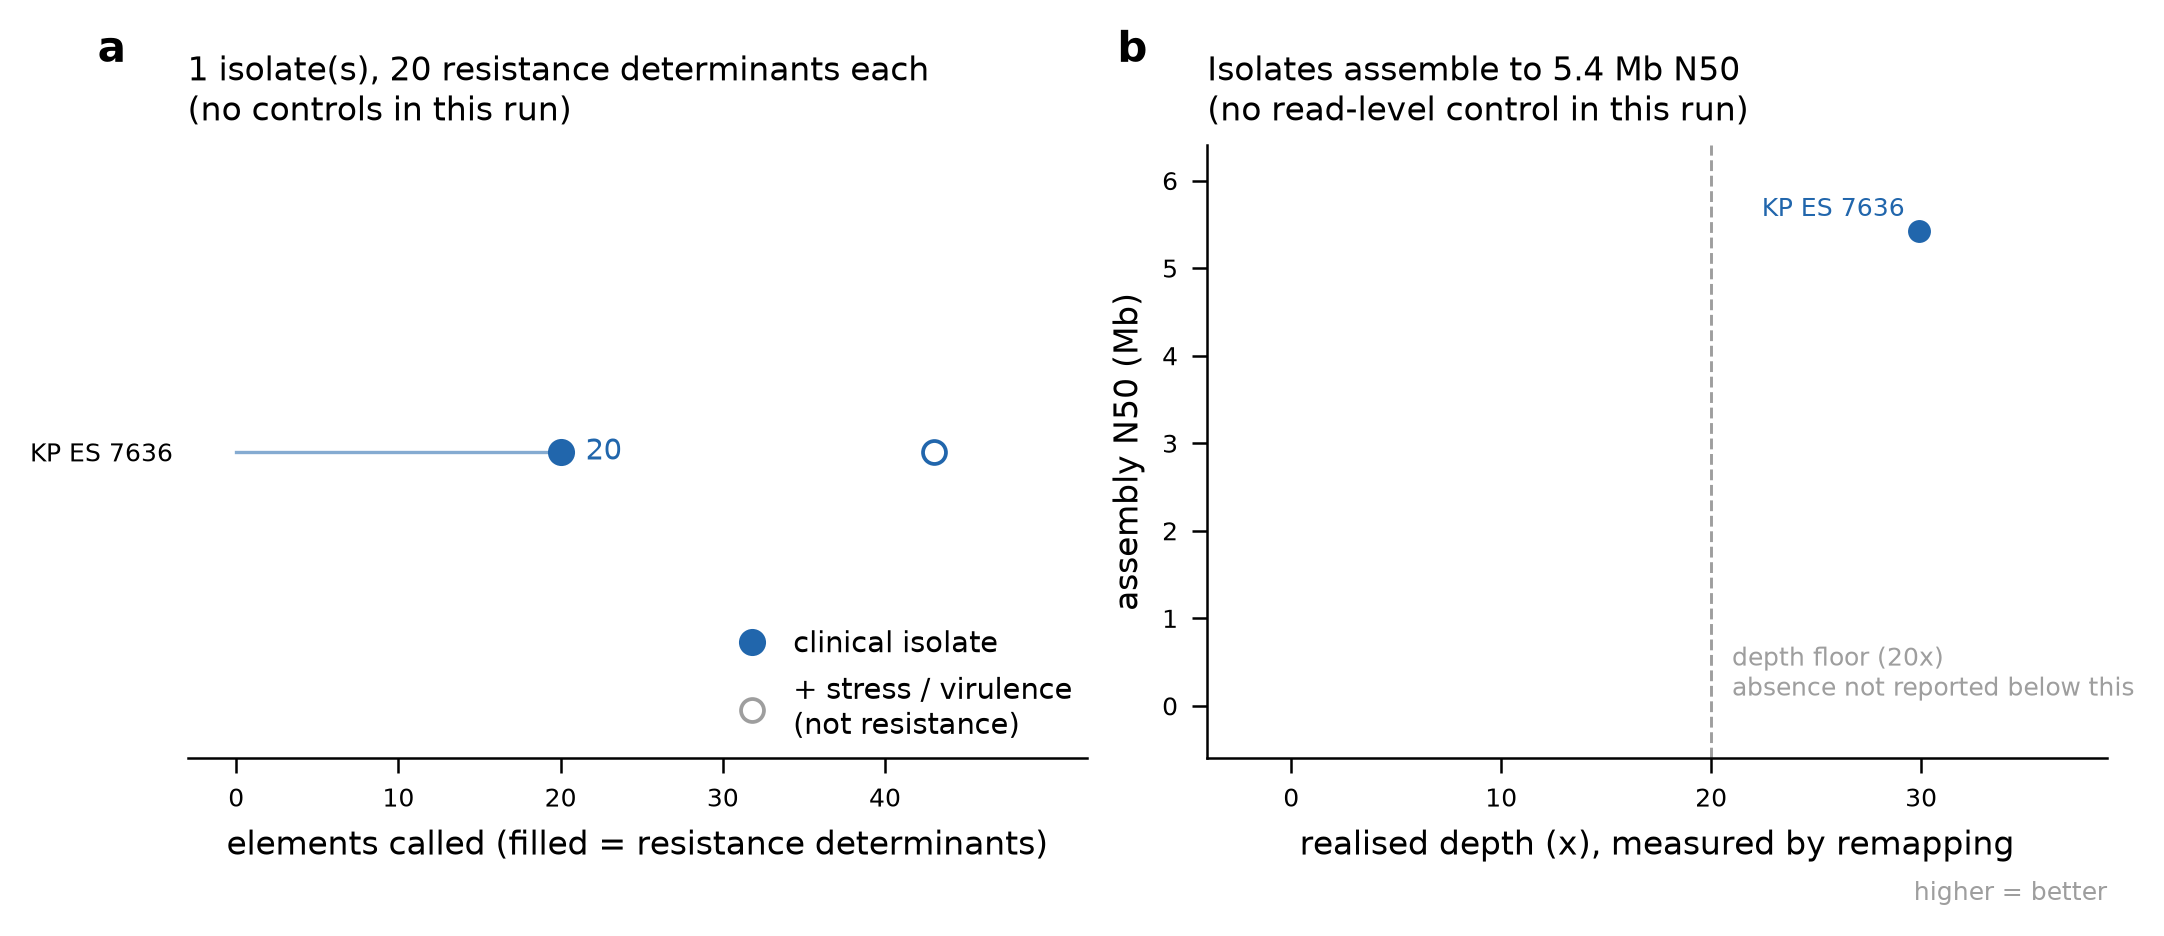
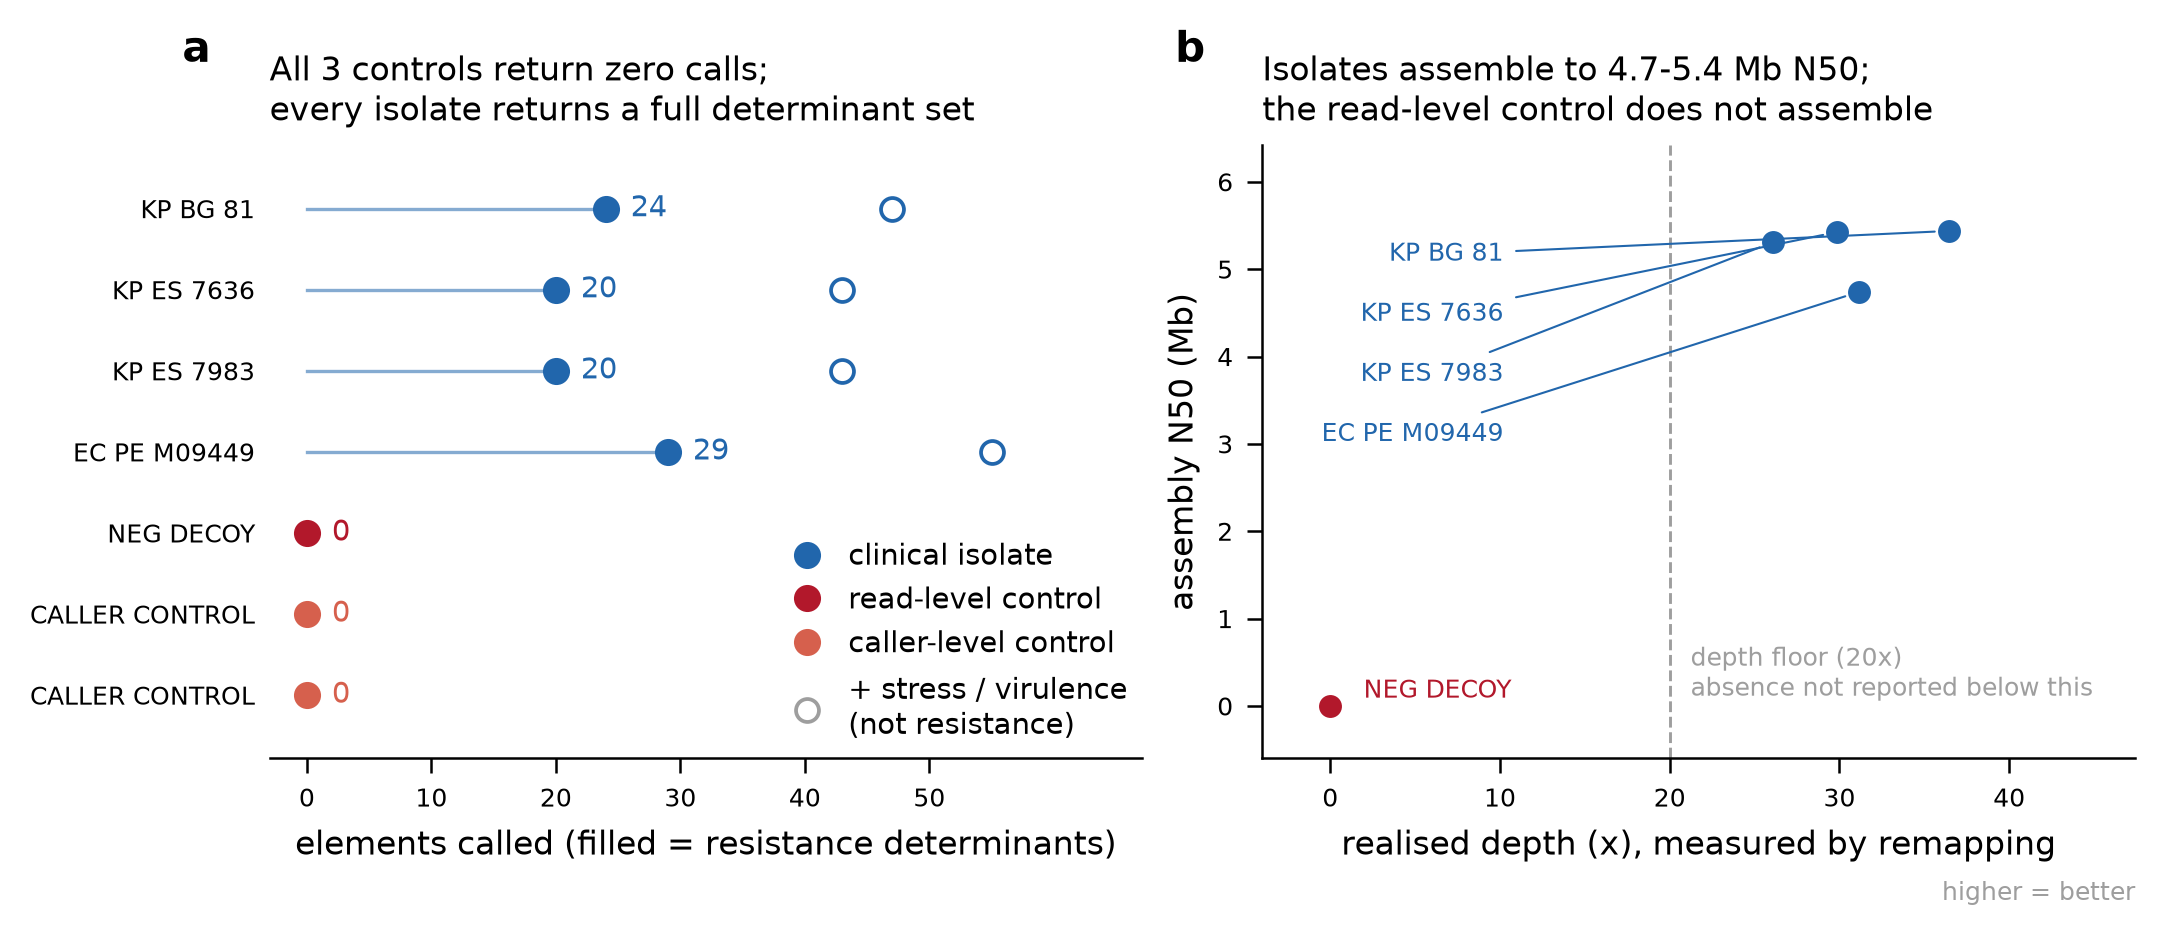
Stop the titration render from overwriting figures 1 and 2
fig3 needs the titration table, which the main run does not produce, so the README
documents rendering twice into one figure directory. Every figure function ran
unconditionally, so the second command re-derived fig1 and fig2 from the titration
directory -- one full-depth isolate plus its subsamples, no controls -- and wrote
them over the real six-sample figures under the same filenames. Both renders printed
success and every self-check passed: the figures were geometrically clean renderings
of the wrong data. The committed figures were wrong.

figure_controls() and figure_profile() now skip a titration results dir, the way
figure_titration() already skips a dir with no titration table. The guard tests for
titration rows AND no controls rather than just "no controls", because
--make_decoy false --caller_control false is a legitimate run and there the absence
must show in the figure; control_titles_match_data() asserts exactly that and a
broader guard broke it.

Adds titration_dir_does_not_overwrite_main_figures(), which renders into a directory
holding sentinel files and asserts they survive. Both guards verified non-vacuous by
removal.

diff --git a/tests/test_figures.py b/tests/test_figures.py
@@ -319,6 +319,92 @@ def profile_title_matches_data():
     return True
 
 
+def titration_dir_does_not_overwrite_main_figures():
+    """fig1 and fig2 must skip on a titration results dir, not overwrite the real ones.
+
+    The README documents rendering twice into the same figure directory -- once from
+    the main results, once from the titration results, because fig3 needs data the
+    main run does not have. Every figure function used to run unconditionally, so the
+    second command re-wrote fig1 and fig2 from the titration directory: one full-depth
+    isolate and its subsamples, no controls. The result was a figure captioned
+    "1 isolate(s) ... (no controls in this run)" sitting at the filename of the
+    six-sample figure, and the run printed nothing but success. This was shipped.
+
+    The subject of both figures is absent from that directory, so both must decline.
+    """
+    import shutil as _shutil
+    import csv as _csv
+    import os as _os
+
+    label = "fig1/fig2 skip on a titration dir instead of overwriting"
+    scratch = tempfile.mkdtemp(prefix="titdir-")
+    try:
+        res = _os.path.join(scratch, "results_titration")
+        figdir = _os.path.join(scratch, "figs")
+        _os.makedirs(res)
+        _os.makedirs(figdir)
+
+        # a titration directory: one full-depth isolate + subsample rows, no controls
+        subs = ["KP_X_d5_r1", "KP_X_d10_r1", "KP_X_d20_r1", "KP_X_d40_r1"]
+        with open(_os.path.join(res, "validation_summary.tsv"), "w", newline="") as fh:
+            w = _csv.writer(fh, delimiter="\t")
+            w.writerow(["sample_id", "role", "verdict", "checks_failed",
+                        "amr_calls", "total_elements", "mean_depth", "n50"])
+            w.writerow(["KP_X", "test", "PASS", "", "3", "3", "30.0", "5000000"])
+            for s in subs:
+                w.writerow([s, "titration", "PASS", "", "2", "2", "10.0", "200000"])
+        with open(_os.path.join(res, "amr_calls.tsv"), "w", newline="") as fh:
+            w = _csv.writer(fh, delimiter="\t")
+            w.writerow(["sample_id", "gene_symbol", "element_type", "element_subtype",
+                        "class_", "pct_identity", "pct_coverage", "method"])
+            for s in ["KP_X"] + subs:
+                for gene in ("blaCTX-M-15", "qnrB1"):
+                    w.writerow([s, gene, "AMR", "AMR", "BETA-LACTAM",
+                                "99.50", "100.00", "BLASTX"])
+        with open(_os.path.join(res, "depth_titration.tsv"), "w", newline="") as fh:
+            w = _csv.writer(fh, delimiter="\t")
+            w.writerow(["sample_id", "target_depth", "replicate", "realised_depth",
+                        "n50", "n_genes_full_depth", "n_genes_recovered",
+                        "recovery_fraction", "genes_missed"])
+            for d, rd, n50 in ((5, 4.8, 50000), (10, 9.7, 200000),
+                               (20, 19.4, 5000000), (40, 38.9, 5100000)):
+                w.writerow(["KP_X", d, 1, rd, n50, 2, 2, "1.0000", ""])
+
+        # sentinel files standing in for real, correct figures already rendered
+        sentinel = b"SENTINEL-NOT-A-PNG"
+        for name in ("fig1_controls_and_quality.png", "fig2_determinant_profile.png"):
+            with open(_os.path.join(figdir, name), "wb") as fh:
+                fh.write(sentinel)
+
+        g = load(results=res, figdir=figdir)
+        g["figure_controls"]()
+        g["figure_profile"]()
+        g["figure_titration"]()
+
+        survived = []
+        for name in ("fig1_controls_and_quality.png", "fig2_determinant_profile.png"):
+            with open(_os.path.join(figdir, name), "rb") as fh:
+                if fh.read() != sentinel:
+                    survived.append(name)
+        fig3 = _os.path.join(figdir, "fig3_depth_titration.png")
+        wrote_fig3 = _os.path.exists(fig3) and _os.path.getsize(fig3) > 20_000
+
+        if survived:
+            print(f"  FAIL  {label}")
+            for s in survived:
+                print(f"        {s} was overwritten from titration data")
+            return False
+        if not wrote_fig3:
+            print(f"  FAIL  {label}")
+            print("        fig3 was not written — the guards are too broad")
+            return False
+        print(f"  PASS  {label}")
+        print("        fig1/fig2 untouched, fig3 rendered from the titration table")
+        return True
+    finally:
+        _shutil.rmtree(scratch, ignore_errors=True)
+
+
 def geometry_check_is_enforced():
     """verify() must raise on a violation, and must ignore undrawn tick labels.
 
@@ -462,6 +548,11 @@ def main(results):
     # 8. verify() must raise, not print. It spent several runs detecting a real fig3
     #    violation while the script wrote the figure and exited 0.
     ok.append(geometry_check_is_enforced())
+
+    # 9. Rendering twice into one figure directory -- which the README documents,
+    #    because fig3 needs the titration data -- must not let the second command
+    #    replace fig1 and fig2 with one-isolate, no-control versions of themselves.
+    ok.append(titration_dir_does_not_overwrite_main_figures())
 
     print()
     if all(ok):

diff --git a/bin/make_figures.py b/bin/make_figures.py
@@ -239,6 +239,25 @@ def figure_controls():
     if not val:
         return
 
+    # Skip on a titration results directory. The README documents rendering twice into
+    # one figure directory -- once from the main results, once from the titration
+    # results, because fig3 needs data the main run does not have -- and this function
+    # writes a fixed filename, so the second command silently replaced the real
+    # six-sample figure with the titration parent isolate alone, captioned "no controls
+    # in this run". figure_titration() already skips when handed no titration table;
+    # this is the same courtesy in the other direction.
+    #
+    # The test is deliberately narrower than "has no controls": --make_decoy false
+    # --caller_control false is a legitimate way to run the pipeline, and in that case
+    # the absence has to be visible in the figure rather than hidden by a missing one.
+    # A titration directory is the specific case of titration-role rows with no
+    # controls; a combined run has controls and still renders.
+    have_controls = any(v["role"] in ("negative_control", "caller_control") for v in val) \
+        or os.path.exists(os.path.join(RESULTS, "amr", "CALLER_CONTROL.amrfinder.tsv"))
+    if any(v["role"] == "titration" for v in val) and not have_controls:
+        print("titration results dir, not a controls panel; skipping fig1")
+        return
+
     # Count from amr_calls.tsv by element type rather than trusting a single summary
     # column: AMRFinderPlus reports resistance determinants alongside STRESS
     # (biocide/metal/heat) and VIRULENCE elements, and conflating them roughly doubles
@@ -435,6 +454,14 @@ def figure_profile():
             if r["element_type"] == "AMR"
             and is_isolate(keep_roles.get(r["sample_id"], ""))]
     if not rows:
+        return
+
+    # Same overwrite hazard as fig1: a titration directory contains one full-depth
+    # isolate plus its subsamples, so this would draw a single-column "profile" over
+    # the real multi-isolate one. The profile is a comparison; one isolate is not one.
+    if len({r["sample_id"] for r in rows}) < 2 and any(
+            v["role"] == "titration" for v in val):
+        print("titration results dir, not an isolate panel; skipping fig2")
         return
 
     samples = sorted({r["sample_id"] for r in rows})

diff --git a/README.md b/README.md
@@ -364,6 +364,18 @@ were exactly that until these tests were written:
   builds its own fixtures, which is precisely why none of them could see a stale input.
   `check_published_counts_agree` reads what is actually shipped and recomputes each
   count from the call table.
+- The two documented render commands fought each other. Figure 3 needs the titration
+  table, which the main run does not produce, so this README tells you to run
+  `make_figures.py` twice into the same figure directory. Every figure function ran
+  unconditionally, so the second command re-derived figures 1 and 2 from the titration
+  directory — one full-depth isolate and its subsamples, no controls — and wrote them
+  over the real six-sample versions under the same filenames. Both runs printed
+  success and both self-checks passed, because the figures were geometrically perfect
+  renderings of the wrong data. The committed figures were wrong when I noticed.
+  Figures 1 and 2 now decline a titration directory the way figure 3 already declined
+  a directory with no titration table. The guard is deliberately narrower than "has no
+  controls": `--make_decoy false --caller_control false` is a legitimate run, and there
+  the missing controls must be visible in the figure rather than hidden by its absence.
 
 `test_validation_gate.py` and `test_control_gate.py` extract the Nextflow-interpolated
 Python from their modules and substitute the interpolations, so they exercise the source
